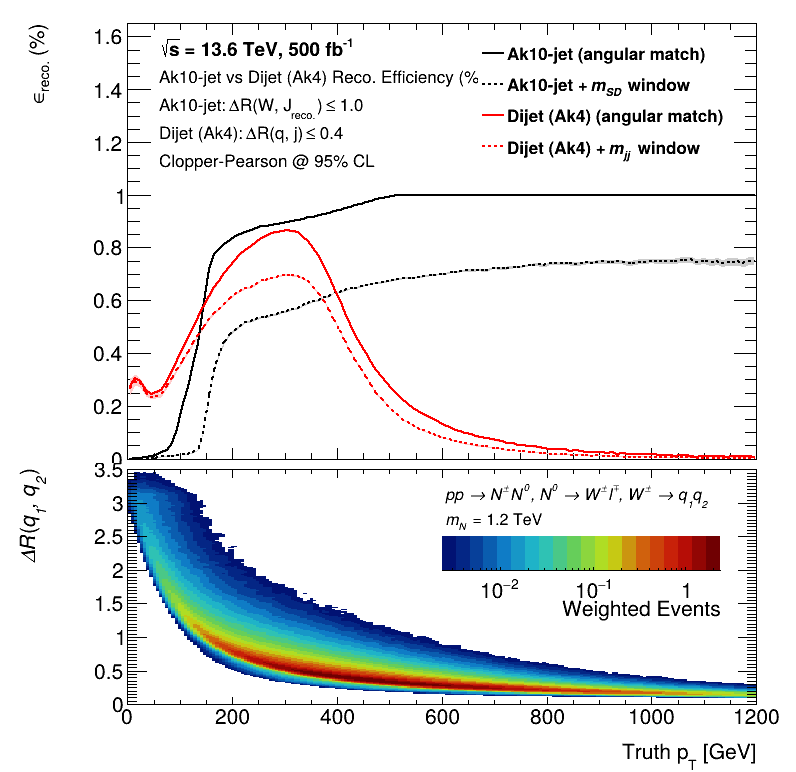
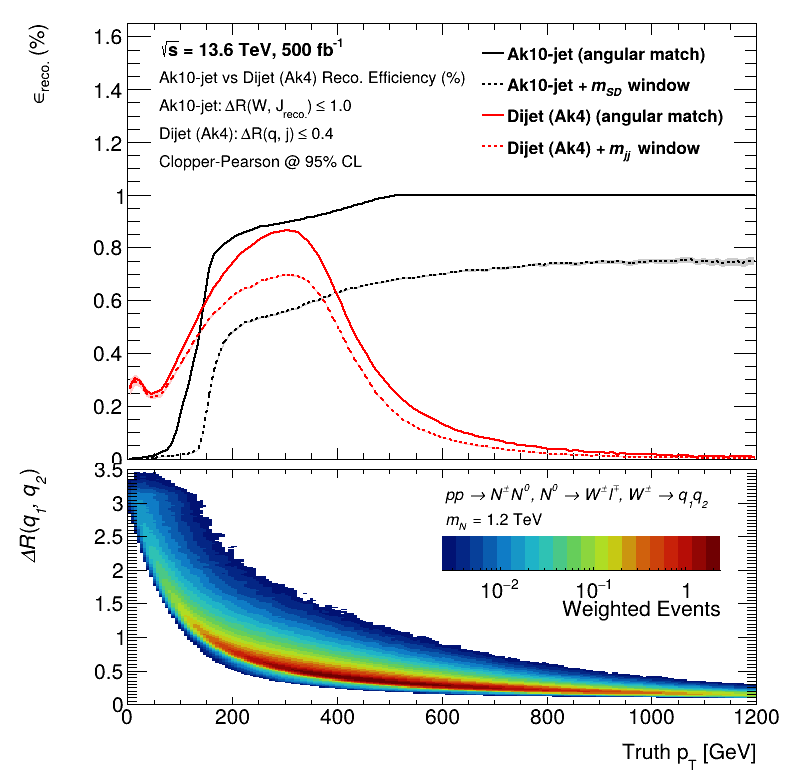
Update plot text size for improved readability and regenerate efficiency comparison plots

Changed region(s): [[0.2111, 0.0311, 0.603, 0.2176]]

diff --git a/reconstruction_efficiency_comparison.py b/reconstruction_efficiency_comparison.py
@@ -188,7 +188,7 @@ def plot_efficiency_with_correlations(name, fatjet_hists, dijet_hists, corr_tree
         "Ak10-jet: #DeltaR(W, J_{reco.}) #leq 1.0",
         "Dijet (Ak4): #DeltaR(q, j) #leq 0.4",
         "Clopper-Pearson @ 95% CL"
-    ], text_size=0.04, step=0.06)
+    ], text_size=0.038, step=0.06)
 
     leg = ROOT.TLegend(0.6, 0.65, 0.75, 0.92)
     leg.SetFillColor(0)
